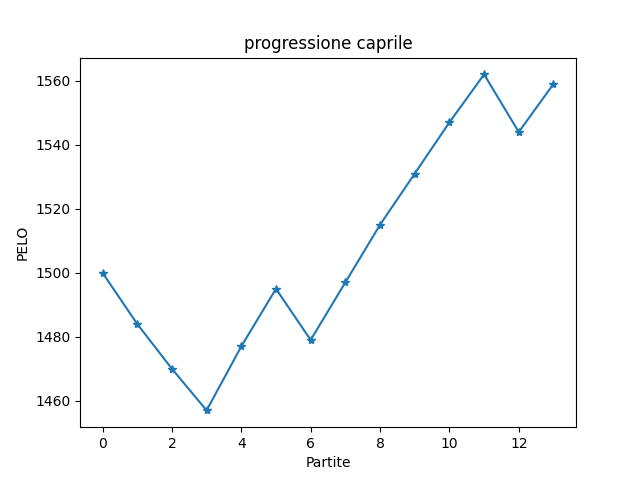
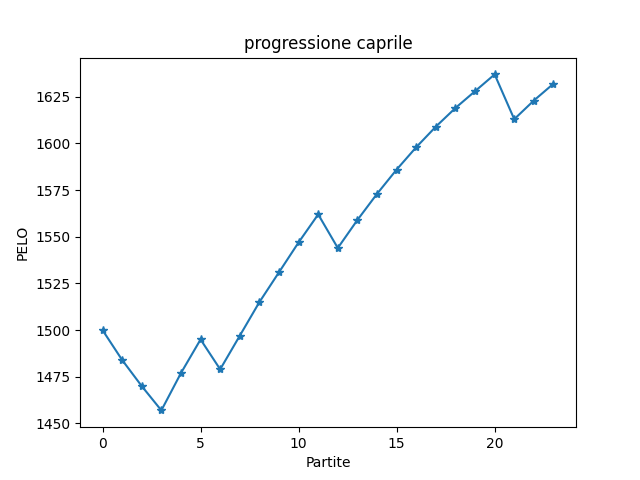
Add files via upload

diff --git a/index.htm b/index.htm
@@ -2,7 +2,7 @@
 <html>
 <link rel='stylesheet' href='style.css'>
 <center><body><br><h1 style='color:blue;'><big>TORNEO ESTATE 2024</big></h1></body><title>Classifica</title>
-<h5>Ultimo aggiornamento: 2024-06-14 alle 08:40:33</h5>
+<h5>Ultimo aggiornamento: 2024-06-15 alle 18:31:09</h5>
 <br><br><h1>Classifica</h1><table border='1' class='dataframe'>
 <thead>
 <tr 'text-align: right;'>
@@ -11,31 +11,31 @@
 </thead>
 <tbody><tr>
 <td>1</td><td>caprile</td>
-<td>1559</td><td><b><center><a href = 'statistiche_caprile.htm'>I</a></center></h3></b>
+<td>1632</td><td><b><center><a href = 'statistiche_caprile.htm'>I</a></center></h3></b>
 </tr>
 <tr>
 <td>2</td><td>devigili</td>
 <td>1539</td><td><b><center><a href = 'statistiche_devigili.htm'>I</a></center></h3></b>
 </tr>
 <tr>
-<td>3</td><td>castellani</td>
-<td>1502</td><td><b><center><a href = 'statistiche_castellani.htm'>I</a></center></h3></b>
-</tr>
-<tr>
-<td>4</td><td>tronza</td>
+<td>3</td><td>tronza</td>
 <td>1485</td><td><b><center><a href = 'statistiche_tronza.htm'>I</a></center></h3></b>
 </tr>
 <tr>
-<td>5</td><td>scaglia</td>
+<td>4</td><td>scaglia</td>
 <td>1471</td><td><b><center><a href = 'statistiche_scaglia.htm'>I</a></center></h3></b>
 </tr>
 <tr>
-<td>6</td><td>zontini</td>
+<td>5</td><td>zontini</td>
 <td>1469</td><td><b><center><a href = 'statistiche_zontini.htm'>I</a></center></h3></b>
+</tr>
+<tr>
+<td>6</td><td>castellani</td>
+<td>1439</td><td><b><center><a href = 'statistiche_castellani.htm'>I</a></center></h3></b>
 </tr>
 </table>
 <br><br><center><h1><b>Statistiche Globali</b></h1></center><center><table id='statistiche' border='1' class='dataframe'>
-<tr><td><b>Più partite fatte</b></td><td>castellani (20)</td></tr>
-<tr><td><b>Più partite vinte</b></td><td>castellani (10)</td></tr>
+<tr><td><b>Più partite fatte</b></td><td>castellani (30)</td></tr>
+<tr><td><b>Più partite vinte</b></td><td>caprile (17)</td></tr>
 <tr><td><b>Percentuale di vittorie più alta</b></td><td>devigili (75.0%)</td></tr>
 </table><br><br><br><br><br><h2><center><a href='storico_partite.html'>Storico partite</a></center></h2><br><br><br><br></html>

diff --git a/statistiche_caprile.htm b/statistiche_caprile.htm
@@ -5,17 +5,17 @@
 <h1><center>Statistiche: caprile</center></h1>
 <center><img src='caprile.png'></center>
 </head><br><br><center><table id='statistiche' border='1' class='dataframe'>
-<tr><td><b>Partite fatte</b></td><td>13</td></tr>
-<tr><td><b>Partite vinte</b></td><td>8 (61.5%)</td></tr>
-<tr><td><b>Record PELO</b></td><td>1562</td></tr>
-<tr><td><b>Best streak</b></td><td>5</td></tr>
-<tr><td><b>Current streak</b></td><td>1</td></tr>
-<tr><td><b>Punti fatti</b></td><td>130</td></tr>
-<tr><td><b>Punti subiti</b></td><td>107</td></tr>
+<tr><td><b>Partite fatte</b></td><td>23</td></tr>
+<tr><td><b>Partite vinte</b></td><td>17 (73.9%)</td></tr>
+<tr><td><b>Record PELO</b></td><td>1637</td></tr>
+<tr><td><b>Best streak</b></td><td>8</td></tr>
+<tr><td><b>Current streak</b></td><td>2</td></tr>
+<tr><td><b>Punti fatti</b></td><td>240</td></tr>
+<tr><td><b>Punti subiti</b></td><td>192</td></tr>
 </table></center></body><br><br><center><table id='statistiche' border='1' class='dataframe'>
 <br><h2>Statistiche contro gli altri giocatori</h2><tr><td><b>devigili</b></td><td><b>N/A% (<span style='color:green'>0</span> / <span style='color:red'>0</span>  / 0)</b></td></tr>
-<tr><td><b>castellani</b></td><td><b>54.5% (<span style='color:green'>6</span> / <span style='color:red'>5</span>  / 11)</b></td></tr>
 <tr><td><b>tronza</b></td><td><b>N/A% (<span style='color:green'>0</span> / <span style='color:red'>0</span>  / 0)</b></td></tr>
 <tr><td><b>scaglia</b></td><td><b>N/A% (<span style='color:green'>0</span> / <span style='color:red'>0</span>  / 0)</b></td></tr>
 <tr><td><b>zontini</b></td><td><b>100.0% (<span style='color:green'>2</span> / <span style='color:red'>0</span>  / 2)</b></td></tr>
+<tr><td><b>castellani</b></td><td><b>71.4% (<span style='color:green'>15</span> / <span style='color:red'>6</span>  / 21)</b></td></tr>
 <br><br><br></html>

diff --git a/statistiche_castellani.htm b/statistiche_castellani.htm
@@ -5,15 +5,15 @@
 <h1><center>Statistiche: castellani</center></h1>
 <center><img src='castellani.png'></center>
 </head><br><br><center><table id='statistiche' border='1' class='dataframe'>
-<tr><td><b>Partite fatte</b></td><td>20</td></tr>
-<tr><td><b>Partite vinte</b></td><td>10 (50.0%)</td></tr>
+<tr><td><b>Partite fatte</b></td><td>30</td></tr>
+<tr><td><b>Partite vinte</b></td><td>11 (36.6%)</td></tr>
 <tr><td><b>Record PELO</b></td><td>1545</td></tr>
 <tr><td><b>Best streak</b></td><td>3</td></tr>
 <tr><td><b>Current streak</b></td><td>0</td></tr>
-<tr><td><b>Punti fatti</b></td><td>175</td></tr>
-<tr><td><b>Punti subiti</b></td><td>194</td></tr>
+<tr><td><b>Punti fatti</b></td><td>260</td></tr>
+<tr><td><b>Punti subiti</b></td><td>304</td></tr>
 </table></center></body><br><br><center><table id='statistiche' border='1' class='dataframe'>
-<br><h2>Statistiche contro gli altri giocatori</h2><tr><td><b>caprile</b></td><td><b>45.4% (<span style='color:green'>5</span> / <span style='color:red'>6</span>  / 11)</b></td></tr>
+<br><h2>Statistiche contro gli altri giocatori</h2><tr><td><b>caprile</b></td><td><b>28.5% (<span style='color:green'>6</span> / <span style='color:red'>15</span>  / 21)</b></td></tr>
 <tr><td><b>devigili</b></td><td><b>0.0% (<span style='color:green'>0</span> / <span style='color:red'>2</span>  / 2)</b></td></tr>
 <tr><td><b>tronza</b></td><td><b>N/A% (<span style='color:green'>0</span> / <span style='color:red'>0</span>  / 0)</b></td></tr>
 <tr><td><b>scaglia</b></td><td><b>N/A% (<span style='color:green'>0</span> / <span style='color:red'>0</span>  / 0)</b></td></tr>

diff --git a/storico_partite.html b/storico_partite.html
@@ -113,5 +113,45 @@
 <td>27</td><td>caprile</td>
 <td>castellani</td><td><b><center>11-7</center></h3></b>
 </tr>
+<tr>
+<td>28</td><td>castellani</td>
+<td>caprile</td><td><b><center>8-11</center></h3></b>
+</tr>
+<tr>
+<td>29</td><td>castellani</td>
+<td>caprile</td><td><b><center>7-11</center></h3></b>
+</tr>
+<tr>
+<td>30</td><td>castellani</td>
+<td>caprile</td><td><b><center>10-12</center></h3></b>
+</tr>
+<tr>
+<td>31</td><td>castellani</td>
+<td>caprile</td><td><b><center>10-12</center></h3></b>
+</tr>
+<tr>
+<td>32</td><td>castellani</td>
+<td>caprile</td><td><b><center>8-11</center></h3></b>
+</tr>
+<tr>
+<td>33</td><td>castellani</td>
+<td>caprile</td><td><b><center>8-11</center></h3></b>
+</tr>
+<tr>
+<td>34</td><td>castellani</td>
+<td>caprile</td><td><b><center>7-11</center></h3></b>
+</tr>
+<tr>
+<td>35</td><td>castellani</td>
+<td>caprile</td><td><b><center>11-9</center></h3></b>
+</tr>
+<tr>
+<td>36</td><td>castellani</td>
+<td>caprile</td><td><b><center>9-11</center></h3></b>
+</tr>
+<tr>
+<td>37</td><td>castellani</td>
+<td>caprile</td><td><b><center>7-11</center></h3></b>
+</tr>
 </table></center>
 </html>

diff --git a/statistiche_devigili.htm b/statistiche_devigili.htm
@@ -14,8 +14,8 @@
 <tr><td><b>Punti subiti</b></td><td>25</td></tr>
 </table></center></body><br><br><center><table id='statistiche' border='1' class='dataframe'>
 <br><h2>Statistiche contro gli altri giocatori</h2><tr><td><b>caprile</b></td><td><b>N/A% (<span style='color:green'>0</span> / <span style='color:red'>0</span>  / 0)</b></td></tr>
-<tr><td><b>castellani</b></td><td><b>100.0% (<span style='color:green'>2</span> / <span style='color:red'>0</span>  / 2)</b></td></tr>
 <tr><td><b>tronza</b></td><td><b>N/A% (<span style='color:green'>0</span> / <span style='color:red'>0</span>  / 0)</b></td></tr>
 <tr><td><b>scaglia</b></td><td><b>N/A% (<span style='color:green'>0</span> / <span style='color:red'>0</span>  / 0)</b></td></tr>
 <tr><td><b>zontini</b></td><td><b>50.0% (<span style='color:green'>1</span> / <span style='color:red'>1</span>  / 2)</b></td></tr>
+<tr><td><b>castellani</b></td><td><b>100.0% (<span style='color:green'>2</span> / <span style='color:red'>0</span>  / 2)</b></td></tr>
 <br><br><br></html>

diff --git a/statistiche_zontini.htm b/statistiche_zontini.htm
@@ -15,7 +15,7 @@
 </table></center></body><br><br><center><table id='statistiche' border='1' class='dataframe'>
 <br><h2>Statistiche contro gli altri giocatori</h2><tr><td><b>caprile</b></td><td><b>0.0% (<span style='color:green'>0</span> / <span style='color:red'>2</span>  / 2)</b></td></tr>
 <tr><td><b>devigili</b></td><td><b>50.0% (<span style='color:green'>1</span> / <span style='color:red'>1</span>  / 2)</b></td></tr>
-<tr><td><b>castellani</b></td><td><b>28.5% (<span style='color:green'>2</span> / <span style='color:red'>5</span>  / 7)</b></td></tr>
 <tr><td><b>tronza</b></td><td><b>100.0% (<span style='color:green'>1</span> / <span style='color:red'>0</span>  / 1)</b></td></tr>
 <tr><td><b>scaglia</b></td><td><b>100.0% (<span style='color:green'>2</span> / <span style='color:red'>0</span>  / 2)</b></td></tr>
+<tr><td><b>castellani</b></td><td><b>28.5% (<span style='color:green'>2</span> / <span style='color:red'>5</span>  / 7)</b></td></tr>
 <br><br><br></html>

diff --git a/statistiche_tronza.htm b/statistiche_tronza.htm
@@ -15,7 +15,7 @@
 </table></center></body><br><br><center><table id='statistiche' border='1' class='dataframe'>
 <br><h2>Statistiche contro gli altri giocatori</h2><tr><td><b>caprile</b></td><td><b>N/A% (<span style='color:green'>0</span> / <span style='color:red'>0</span>  / 0)</b></td></tr>
 <tr><td><b>devigili</b></td><td><b>N/A% (<span style='color:green'>0</span> / <span style='color:red'>0</span>  / 0)</b></td></tr>
-<tr><td><b>castellani</b></td><td><b>N/A% (<span style='color:green'>0</span> / <span style='color:red'>0</span>  / 0)</b></td></tr>
 <tr><td><b>scaglia</b></td><td><b>N/A% (<span style='color:green'>0</span> / <span style='color:red'>0</span>  / 0)</b></td></tr>
 <tr><td><b>zontini</b></td><td><b>0.0% (<span style='color:green'>0</span> / <span style='color:red'>1</span>  / 1)</b></td></tr>
+<tr><td><b>castellani</b></td><td><b>N/A% (<span style='color:green'>0</span> / <span style='color:red'>0</span>  / 0)</b></td></tr>
 <br><br><br></html>

diff --git a/statistiche_scaglia.htm b/statistiche_scaglia.htm
@@ -15,7 +15,7 @@
 </table></center></body><br><br><center><table id='statistiche' border='1' class='dataframe'>
 <br><h2>Statistiche contro gli altri giocatori</h2><tr><td><b>caprile</b></td><td><b>N/A% (<span style='color:green'>0</span> / <span style='color:red'>0</span>  / 0)</b></td></tr>
 <tr><td><b>devigili</b></td><td><b>N/A% (<span style='color:green'>0</span> / <span style='color:red'>0</span>  / 0)</b></td></tr>
-<tr><td><b>castellani</b></td><td><b>N/A% (<span style='color:green'>0</span> / <span style='color:red'>0</span>  / 0)</b></td></tr>
 <tr><td><b>tronza</b></td><td><b>N/A% (<span style='color:green'>0</span> / <span style='color:red'>0</span>  / 0)</b></td></tr>
 <tr><td><b>zontini</b></td><td><b>0.0% (<span style='color:green'>0</span> / <span style='color:red'>2</span>  / 2)</b></td></tr>
+<tr><td><b>castellani</b></td><td><b>N/A% (<span style='color:green'>0</span> / <span style='color:red'>0</span>  / 0)</b></td></tr>
 <br><br><br></html>
